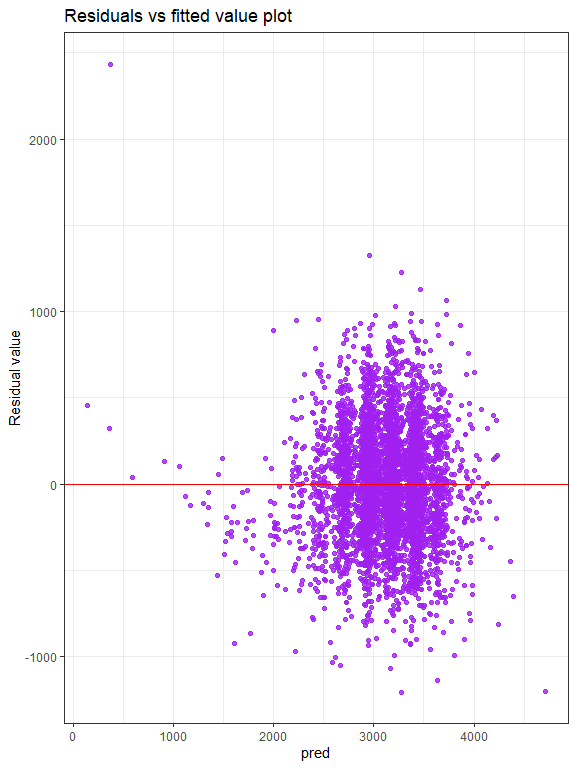
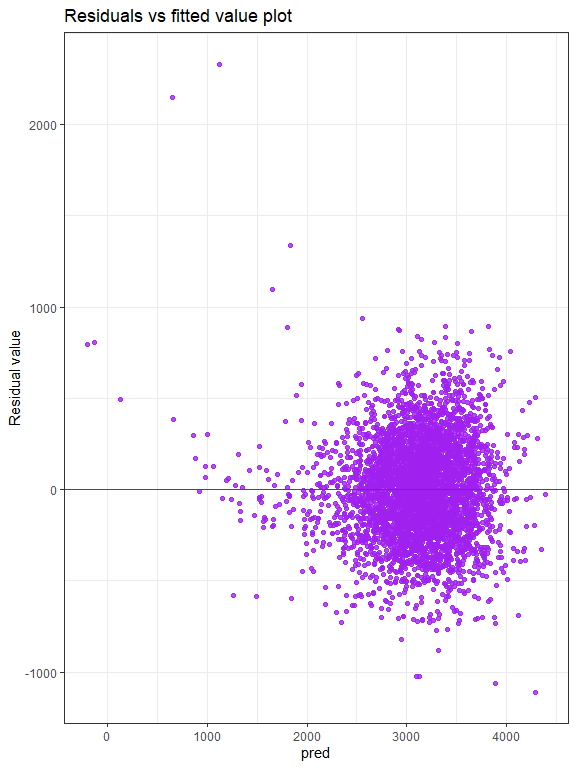
adding model selection and change method of calculating CI

diff --git a/p8105_hw6_jg4197.md b/p8105_hw6_jg4197.md
@@ -16,11 +16,7 @@ child_weight <- read_csv("./data_for_hw6/birthweight.csv") %>%
          malform = factor(malform, levels = c(0, 1),
                           labels = c("absent", "present")),
          mrace = factor(mrace, levels = c(1, 2, 3, 4, 8),
-                        labels = c("white", "black", "asian", "puerto", "other")),
-         parity = factor(parity),
-         pnumlbw = factor(pnumlbw),
-         pnumsga = factor(pnumsga),
-         smoken = factor(smoken))
+                        labels = c("white", "black", "asian", "puerto", "other")))
 child_weight
 ```
 
@@ -38,21 +34,88 @@ child_weight
     ##  9 male       36      52  3515   146      85 white    40.3 absent        11
     ## 10 male       33      50  3459   169      75 black    40.7 absent        12
     ## # ... with 4,332 more rows, and 10 more variables: mheight <dbl>,
-    ## #   momage <dbl>, mrace <fct>, parity <fct>, pnumlbw <fct>, pnumsga <fct>,
-    ## #   ppbmi <dbl>, ppwt <dbl>, smoken <fct>, wtgain <dbl>
+    ## #   momage <dbl>, mrace <fct>, parity <dbl>, pnumlbw <dbl>, pnumsga <dbl>,
+    ## #   ppbmi <dbl>, ppwt <dbl>, smoken <dbl>, wtgain <dbl>
 
 ``` r
 ## propose self-regression model for birthweight
-# interested in circumference, mother's weight at delivery and presence of malformation
-child_self <- child_weight %>% 
-  select(bwt, bhead, delwt, malform)
+# using rules to select the best model
 
-self_model <- child_self %>% lm(bwt ~ bhead + delwt + malform, data = .)
+best <- function(model, ...) 
+{
+  subsets <- regsubsets(formula(model), model.frame(model), ...)
+  subsets <- with(summary(subsets),
+                  cbind(p = as.numeric(rownames(which)), which, rss, rsq, adjr2, cp, bic))
+  
+  return(subsets)
+}
 
-## reason: circumference of the baby's head is directly related with the baby weight confirmed by many research providing mathematical proof. mother's delivery weight can also affect baby' weight since the weight of mother can be seen whether the nutrition provided by mother during pregnancy is adequate for baby's growing. The presence of malformation is similar since the scarce nutrition to babies can lead to baby's low weight.
+all_model <- lm(bwt ~ ., data = child_weight)
+best(all_model, nbest = 1)
+```
+
+    ## Reordering variables and trying again:
+
+    ##   p (Intercept) babysexfemale bhead blength delwt fincome fraceblack
+    ## 1 1           1             0     1       0     0       0          0
+    ## 2 2           1             0     1       1     0       0          0
+    ## 3 3           1             0     1       1     0       0          0
+    ## 4 4           1             0     1       1     1       0          0
+    ## 5 5           1             0     1       1     1       0          0
+    ## 6 6           1             0     1       1     1       0          0
+    ## 7 7           1             0     1       1     1       0          0
+    ## 8 8           1             0     1       1     1       0          0
+    ## 9 9           1             1     1       1     1       0          0
+    ##   fraceasian fracepuerto fraceother gaweeks malformpresent menarche
+    ## 1          0           0          0       0              0        0
+    ## 2          0           0          0       0              0        0
+    ## 3          0           0          0       0              0        0
+    ## 4          0           0          0       0              0        0
+    ## 5          0           0          0       1              0        0
+    ## 6          0           0          0       1              0        0
+    ## 7          0           0          0       1              0        0
+    ## 8          0           1          0       1              0        0
+    ## 9          0           1          0       1              0        0
+    ##   mheight momage mraceblack mraceasian mracepuerto parity pnumlbw pnumsga
+    ## 1       0      0          0          0           0      0       0       0
+    ## 2       0      0          0          0           0      0       0       0
+    ## 3       0      0          1          0           0      0       0       0
+    ## 4       0      0          1          0           0      0       0       0
+    ## 5       0      0          1          0           0      0       0       0
+    ## 6       0      0          1          0           0      0       0       0
+    ## 7       0      0          1          0           0      0       0       0
+    ## 8       0      0          1          0           0      0       0       0
+    ## 9       0      0          1          0           0      0       0       0
+    ##   ppbmi ppwt smoken wtgain       rss       rsq     adjr2         cp
+    ## 1     0    0      0      0 503092368 0.5581685 0.5580667 2433.70234
+    ## 2     0    0      0      0 362831534 0.6813500 0.6812031  547.76947
+    ## 3     0    0      0      0 349629197 0.6929447 0.6927323  372.06394
+    ## 4     0    0      0      0 338816265 0.7024410 0.7021665  228.52018
+    ## 5     0    0      0      0 333471234 0.7071351 0.7067974  158.57522
+    ## 6     0    0      1      0 329141332 0.7109378 0.7105377  102.29406
+    ## 7     1    0      1      0 325082470 0.7145024 0.7140413   49.66113
+    ## 8     1    0      1      0 323018891 0.7163147 0.7157909   23.88504
+    ## 9     1    0      1      0 322169036 0.7170611 0.7164732   14.44586
+    ##         bic
+    ## 1 -3529.910
+    ## 2 -4940.652
+    ## 3 -5093.214
+    ## 4 -5221.243
+    ## 5 -5281.910
+    ## 6 -5330.281
+    ## 7 -5375.782
+    ## 8 -5395.056
+    ## 9 -5398.119
+
+``` r
+# we can get the best model with nine parameters by choosing lowest AIC, BIC, rse, highest adjr2
+
+self_model <- child_weight %>% lm(bwt ~ babysex + bhead + blength + delwt + frace + gaweeks + mrace + ppbmi + smoken, data = .)
+
+## reason: lowest AIC, BIC, rse mean the low SSE meaning the variance is low. Highest adjr2 means good proportion of variance of y can be explained by x
 
 # add residuals and predicted values
-child_self <- child_self %>% 
+child_self <- child_weight %>% 
   add_predictions(self_model) %>% 
   add_residuals(self_model)
 
@@ -67,6 +130,10 @@ child_self %>%
 
 ![](p8105_hw6_jg4197_files/figure-gfm/problem%201-1.png)<!-- -->
 
+``` r
+# except a few cases departing the line y=0, all cases can be seen as the symmetric to y=0. The variance keeps in balance. However, when the fitted value becomes smaller, the residual tend to be increasing.
+```
+
 ## constrcut two compared models and do comparisons
 
 ``` r
@@ -77,7 +144,7 @@ cv_df <- crossv_mc(child_weight, 100) %>%
 
 
 cv_df <- cv_df %>% 
-  mutate(self_model = map(train, ~lm(bwt ~ bhead + delwt + mrace, data = .x)), 
+  mutate(self_model = map(train, ~lm(bwt ~ babysex + bhead + blength + delwt + frace + gaweeks + mrace + ppbmi + smoken, data = .x)), 
          comp1_model = map(train, ~lm(bwt ~ blength + gaweeks, data = .x)),
          comp2_model = map(train, ~lm(bwt ~ bhead + blength + babysex + bhead * blength + bhead * babysex + blength * babysex + bhead * blength * babysex, data = .x)))%>% 
   mutate(rmse_self = map2_dbl(self_model, test, ~rmse(model = .x, data = .y)),
@@ -95,7 +162,7 @@ cv_df %>%
   ) %>% 
   mutate(model = fct_inorder(model)) %>% 
   ggplot(aes(x = model, y = rmse)) + geom_violin(aes(fill = model), alpha = .7) +
-  scale_x_discrete(labels = c("head + mother's weight + malform", "length + gestation", "head + length + sex")) +
+  scale_x_discrete(labels = c("self_best_model", "length + gestation", "head + length + sex")) +
   labs(title = "Comparisons on RMSE between three models",
        x = "Type of model",
        y = "RMSE") +
@@ -104,10 +171,13 @@ cv_df %>%
 
 ![](p8105_hw6_jg4197_files/figure-gfm/unnamed-chunk-1-1.png)<!-- -->
 
+``` r
+# the self_model across the model selection has the lowest rmse, meaning the model has the greatest predictive ability since the test data gives a good result.
+```
+
 According to the violin plot, we can see the best among three is the
-*bwt \~ bhead + blength + babysex + bhead \* blength + bhead \* babysex
-+ blength \* babysex + bhead \* blength \* babyse* model which consider
-the interaction of the variables
+*bwt \~ babysex + bhead + blength + delwt + frace + gaweeks + mrace +
+ppbmi + smoken* model by selection.
 
 ## distribution of two estimates
 
@@ -124,10 +194,9 @@ weather_df =
     tmax = tmax / 10) %>%
   select(name, id, everything())
 
-set.seed(1)
 
 ## Do bootstrap and show distribution
-
+## r square
 r_square <- weather_df %>%  
   bootstrap(n = 5000) %>% 
   mutate(
@@ -153,8 +222,15 @@ r_square %>%
 ``` r
 ## left-skewed
 
+## calculate the CI of r square
+quantile(r_square$r.squared, probs = c(0.025, 0.975))
+```
 
+    ##      2.5%     97.5% 
+    ## 0.8936977 0.9274807
 
+``` r
+## beta_hat
 beta_hat <- weather_df %>%  
   bootstrap(n = 5000) %>% 
   mutate(
@@ -164,19 +240,14 @@ beta_hat <- weather_df %>%
   ) %>% 
   select(-slr_model, everything()) %>% 
   unnest(for_betahat) %>% 
-  select(.id, term, estimate)
+  select(.id, term, estimate) %>% 
+  pivot_wider(
+  names_from = "term",
+  values_from = "estimate"
+) %>% 
+  mutate(log_betahat = log(`(Intercept)` * tmin))
 
-estimate <- beta_hat %>% 
-  filter(term == "tmin")
-
-betahat_df <- beta_hat %>% 
-  filter(term == "(Intercept)") %>% 
-  full_join(estimate, by = ".id") %>% 
-  select(id = .id, intercept = estimate.x, tmin = estimate.y) %>% 
-  mutate(log_betahat = log(intercept*tmin)) %>% 
-  select(-intercept, -tmin) 
-
-betahat_df %>% 
+beta_hat %>% 
   ggplot(aes(x = log_betahat)) +
   geom_density(aes(fill = "yellow"), size = 1.1) +
   geom_vline(aes(xintercept = mean(log_betahat)),
@@ -190,35 +261,11 @@ betahat_df %>%
 ![](p8105_hw6_jg4197_files/figure-gfm/problem%202-2.png)<!-- -->
 
 ``` r
-## normal distribution
+## normal distribution with a slight left-skewed
+
+## calculate the CI of log(beta0*beta1)
+quantile(beta_hat$log_betahat, c(0.025, 0.975))
 ```
 
-## give confidence intervals
-
-``` r
-## r_square
-ci_r <- r_square %>% 
-  summarize(mean = mean(r.squared),
-    lower = mean(r.squared) - qnorm(0.975) * sd(r.squared),
-    upper = mean(r.squared) + qnorm(0.975) * sd(r.squared))
-ci_r
-```
-
-    ## # A tibble: 1 x 3
-    ##    mean lower upper
-    ##   <dbl> <dbl> <dbl>
-    ## 1 0.911 0.895 0.928
-
-``` r
-## beta_hat
-ci_beta <- betahat_df %>% 
-  summarize(mean = mean(log_betahat),
-    lower = mean(log_betahat) - qnorm(0.975) * sd(log_betahat),
-    upper = mean(log_betahat) + qnorm(0.975) * sd(log_betahat))
-ci_beta
-```
-
-    ## # A tibble: 1 x 3
-    ##    mean lower upper
-    ##   <dbl> <dbl> <dbl>
-    ## 1  2.01  1.97  2.06
+    ##     2.5%    97.5% 
+    ## 1.965633 2.058469
